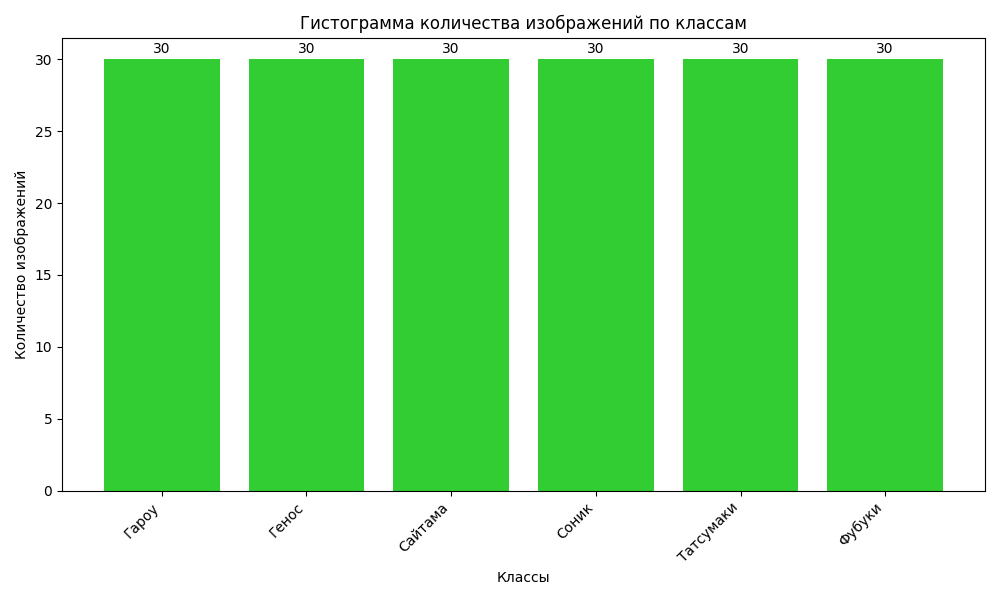
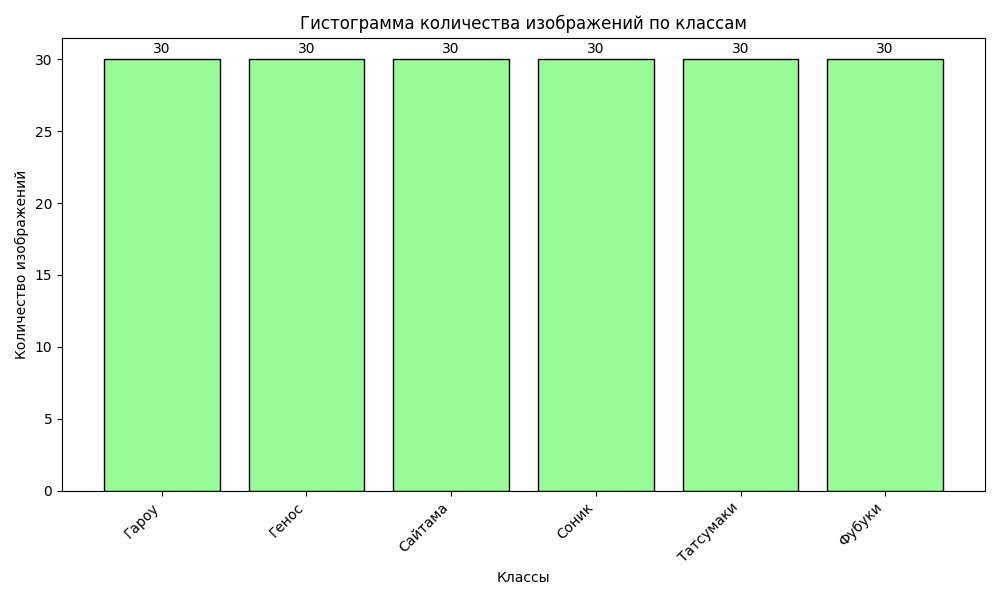
plots changed

diff --git a/homework 5/homework_task3.py b/homework 5/homework_task3.py
@@ -51,7 +51,7 @@ def visualize_size_distribution(widths, heights, path):
     Визуализирует распределение размеров изображений на scatter plot.
     """
     plt.figure(figsize=(10, 6))
-    plt.scatter(widths, heights, alpha=0.5, c='blue', s=50)
+    plt.scatter(widths, heights, alpha=0.5, c='lightcoral', s=50)
     plt.title("Распределение размеров изображений")
     plt.xlabel("Ширина")
     plt.ylabel("Высота")
@@ -66,7 +66,10 @@ def visualize_class_histogram(class_counts, path):
     Визуализирует гистограмму количества изображений по классам.
     """
     plt.figure(figsize=(10, 6))
-    bars = plt.bar(class_counts.keys(), class_counts.values(), color='limegreen')
+    bars = plt.bar(class_counts.keys(), class_counts.values(), color='palegreen')
+    for bar in bars:
+        bar.set_edgecolor('black')
+        bar.set_linewidth(1)
     plt.title("Гистограмма количества изображений по классам")
     plt.xlabel("Классы")
     plt.ylabel("Количество изображений")
